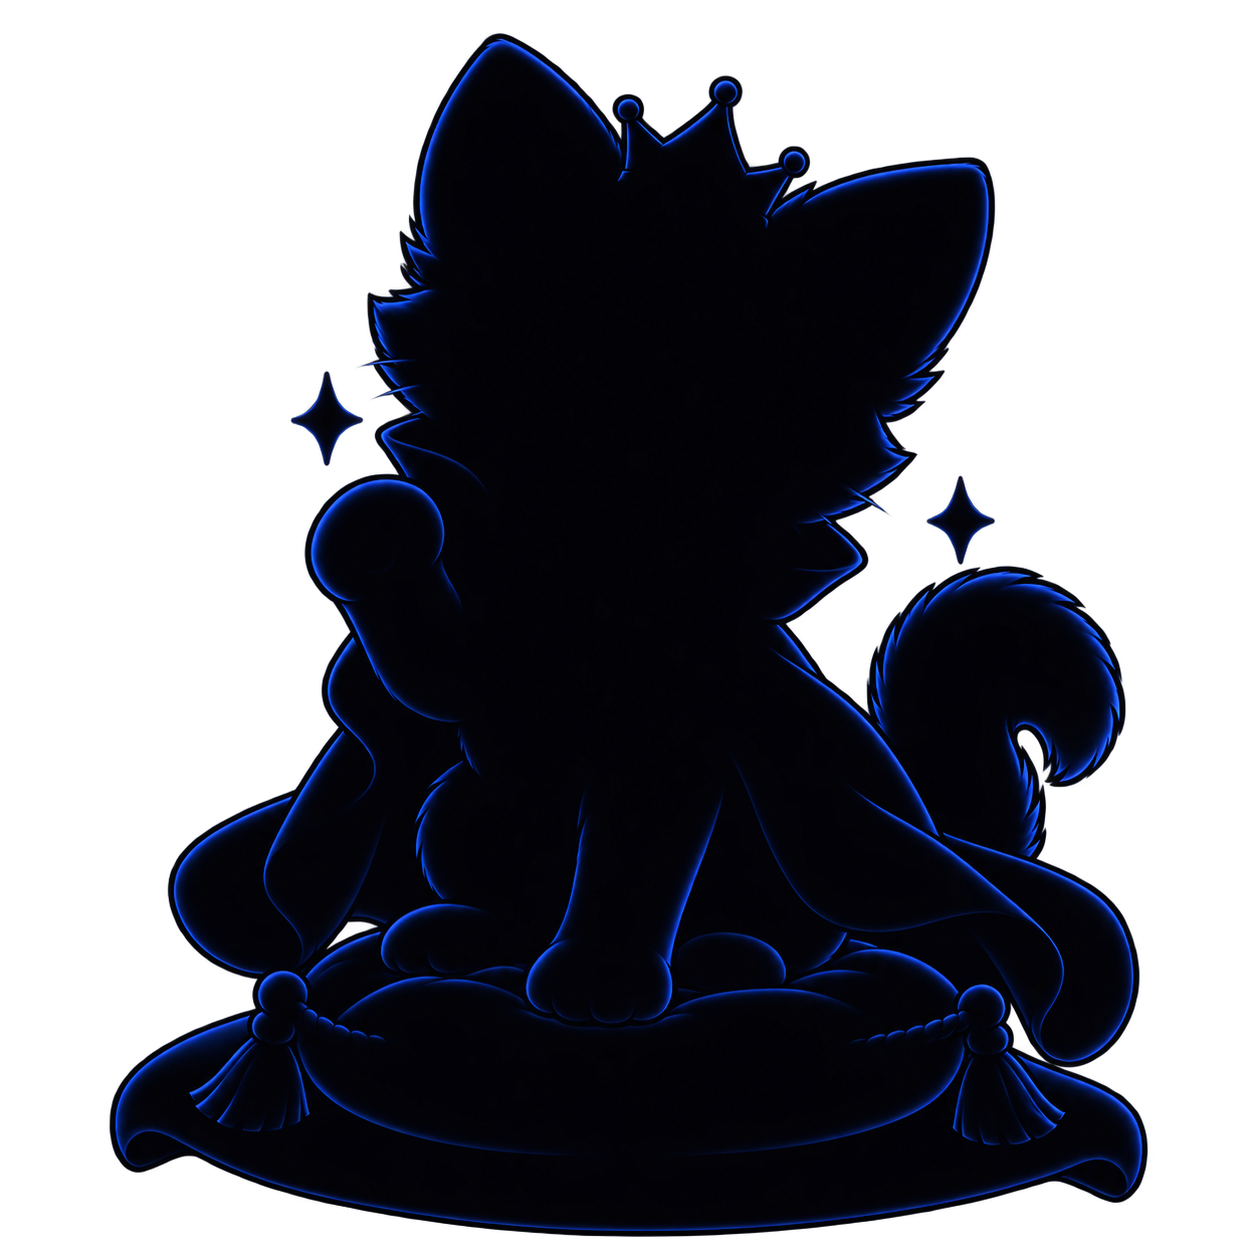
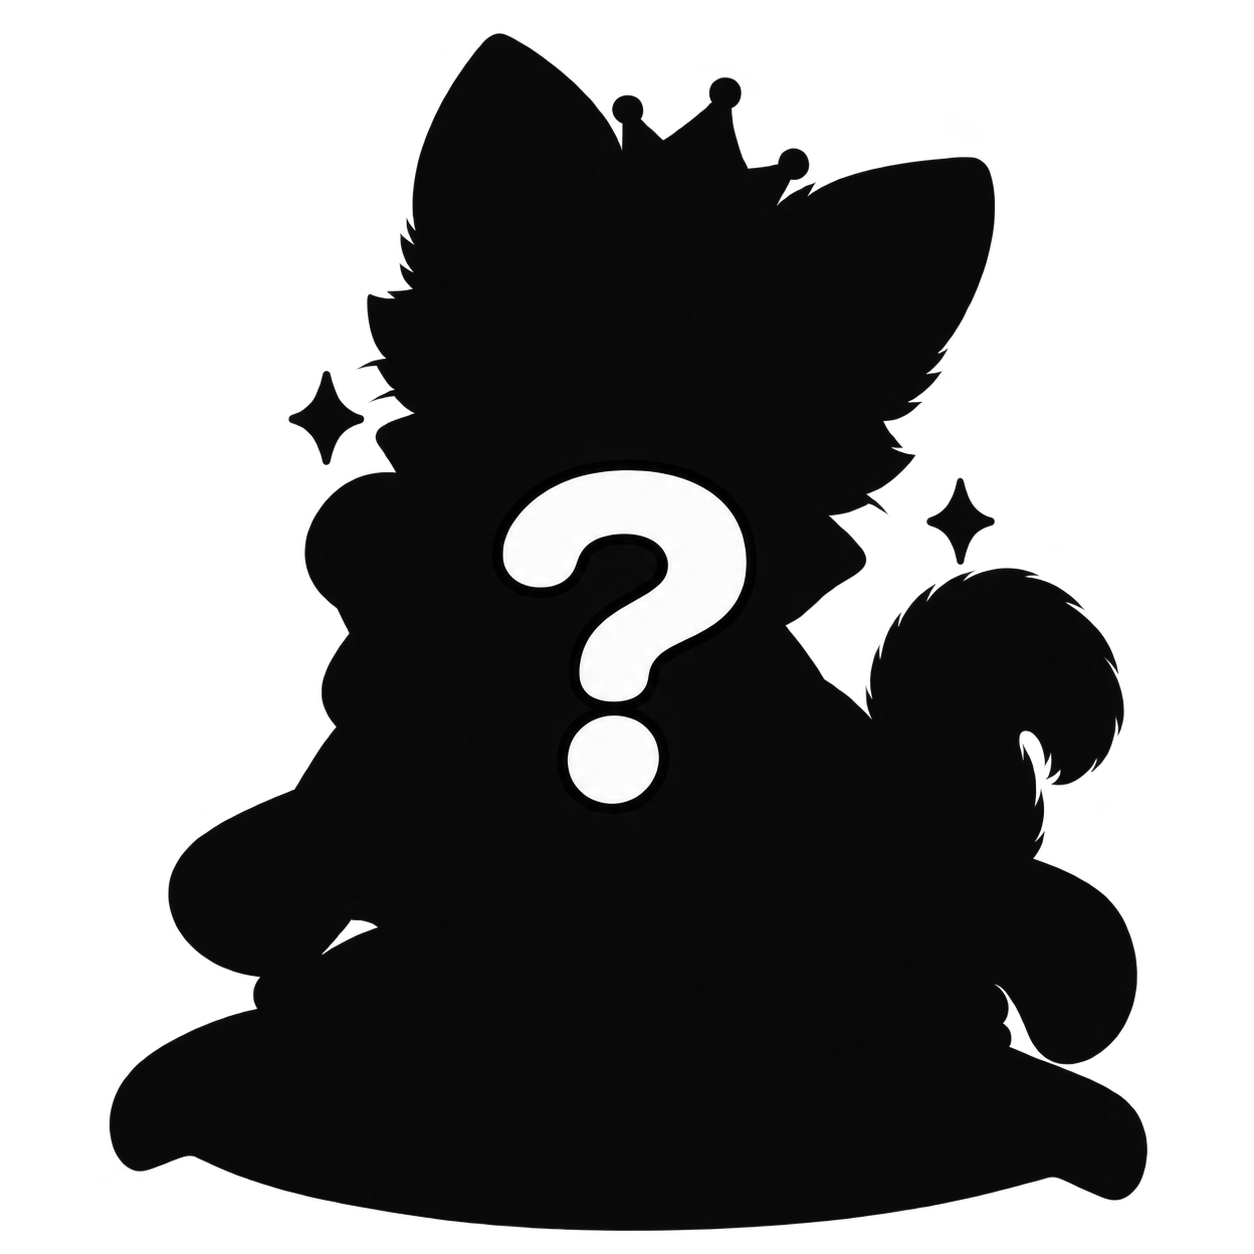
Polish collection rewards and skill usage guidance

diff --git a/style.css b/style.css
@@ -6454,6 +6454,12 @@ body.sneak-mode .board-shell{
   color:#765f56;
 }
 
+.skill-usage-rules{box-sizing:border-box;color:#765f56}
+.howto-skill-usage-rules{display:grid;gap:5px;margin:0 0 9px;padding:8px 10px;border:2px solid #eadfd9;border-radius:13px;background:rgba(255,255,255,.78);font-size:10.5px;line-height:1.35}
+.howto-skill-usage-rules div strong{display:block;color:#6b4b42}
+.howto-skill-usage-rules p{margin:1px 0 0}
+.howto-skill-usage-rules .skill-usage-entitlement{padding-top:5px;border-top:1px solid #eadfd9}
+
 
 /* ネコ / 警察 タブ */
 .howto-skill-tabs{
@@ -7946,23 +7952,6 @@ body.sneak-mode .board-shell{
   width:100%;height:100%;object-fit:contain;display:block;
 }
 .collection-material-pending{position:absolute;left:50%;top:50%;transform:translate(-50%,-50%);padding:8px 12px;border:1px dashed #bca38e;border-radius:10px;background:#fff9ed;color:#8f776b;font-size:12px;font-weight:900}.collection-material-pending[hidden]{display:none}
-.collection-lock{
-  position:absolute;
-  z-index:2;
-  left:50%;top:50%;
-  display:none;
-  min-width:96px;
-  color:#fff;
-  text-align:center;
-  transform:translate(-50%,-50%);
-}
-.collection-lock strong{display:block}
-.collection-lock strong{
-  font-size:64px;
-  line-height:.85;
-  text-shadow:0 3px 8px rgba(0,0,0,.45);
-}
-.collection-detail.is-unowned .collection-lock{display:none}
 .collection-detail-usage{
   padding:8px;
   border:2px solid #ead0b6;
@@ -8404,25 +8393,6 @@ body.sneak-mode .board-shell{
   pointer-events:none;
 }
 
-.collection-unowned-cover{
-  position:absolute;
-  inset:0;
-  z-index:2;
-  display:flex;
-  flex-direction:column;
-  align-items:center;
-  justify-content:center;
-  background:transparent;
-  color:#fff;
-  pointer-events:none;
-}
-.collection-unowned-cover strong{
-  font-size:52px;
-  line-height:.8;
-  text-shadow:0 3px 7px rgba(0,0,0,.45);
-}
-.collection-unowned-cover strong:not(:only-child){font-size:12px}
-.collection-item-preview:not(:has(img[src])) .collection-unowned-cover strong{max-width:90%;font-size:12px;line-height:1.25;text-align:center;text-shadow:none;color:#8f776b}
 .collection-item.is-unowned .collection-item-preview img{
   filter:none;
   opacity:1;
@@ -9327,9 +9297,20 @@ body.sneak-mode .board-shell{
 .shop-overlay .shop-preview-overlay .howto-ability-preview{width:min(100%,380px);max-height:calc(100dvh - 32px - env(safe-area-inset-top) - env(safe-area-inset-bottom));padding:18px;border:2px solid #dfba9a;border-radius:18px;background:#fffaf1!important;text-align:center}
 .shop-overlay .shop-preview-art{display:block;width:92px;height:92px;object-fit:contain;margin:6px auto 10px}
 .shop-overlay .shop-preview-overlay .howto-ability-detail{text-align:left}
+.shop-skill-usage-summary{margin:0;padding:8px 10px;border-radius:12px;background:#fff7df;color:#765f56;font-size:11px;line-height:1.45;text-align:left}
+.shop-skill-usage-rules{margin-top:9px;padding:9px 11px;border:2px solid #eadfd9;border-radius:12px;background:#fff;color:#765f56;text-align:left}
+.shop-skill-usage-rules>strong{display:block;margin-bottom:5px;font-size:12px}
+.shop-skill-usage-rules dl{display:grid;gap:3px;margin:0;font-size:12px}
+.shop-skill-usage-rules dl div{display:flex;justify-content:space-between;gap:12px}
+.shop-skill-usage-rules dt,.shop-skill-usage-rules dd{margin:0}
+.shop-skill-usage-rules dd{font-weight:900}
 .shop-overlay #shopPreviewPrice{margin:6px 0;font-size:17px;font-weight:900}
 .shop-overlay #shopPreviewPurchase,.shop-overlay #shopPreviewClose{box-sizing:border-box;width:100%;min-height:44px;margin-top:8px;white-space:nowrap}
 @media(max-width:390px),(max-height:700px){.shop-overlay .shop-categories{margin:6px 0 8px}.shop-overlay .shop-skill-browser{gap:9px}.shop-overlay .shop-skill-item{height:64px;min-height:64px;max-height:64px}.shop-overlay .shop-skill-item img{width:42px;height:42px;flex-basis:42px}.shop-overlay .shop-preview-art{width:76px;height:76px}.shop-overlay .shop-preview-overlay .howto-ability-preview{padding:12px}}
+
+@media(max-height:700px){
+  #howToOverlay .howto-page[data-howto-page="3"].show{max-height:calc(100dvh - 118px);padding-right:3px;overflow-y:auto;overscroll-behavior:contain}
+}
 
 /* Equal-width home shortcuts, aligned to the three existing bottom controls. */
 .visual-update3 .home-collection-daily{box-sizing:border-box;justify-self:stretch;width:100%;max-width:none;display:grid!important;grid-template-columns:repeat(3,minmax(0,1fr));gap:8px!important;height:40px;padding:0!important;border:0;border-radius:0;background:transparent;box-shadow:none}

diff --git a/index.html b/index.html
@@ -244,9 +244,6 @@
       </header>
       <div class="collection-detail-scroll">
         <div class="collection-detail-main-image">
-          <span class="collection-lock" aria-hidden="true">
-            <strong>?</strong>
-          </span>
           <img data-detail-collection-image src="" alt="">
           <span class="collection-material-pending" data-detail-material hidden>素材未設定</span>
         </div>
@@ -492,6 +489,12 @@
     「特殊スキルあり」では、<br>
     ネコと柴犬警察が特殊スキルを使えます。
   </p>
+
+  <section class="skill-usage-rules howto-skill-usage-rules" aria-label="対戦モード別のスキル利用範囲">
+    <div><strong>対人戦／オンライン部屋対戦</strong><p data-skill-usage-room-description>参加者のどちらかが利用できるスキルは、その対戦中は両者が使用できます。</p></div>
+    <div><strong>オンライン ランクマッチ</strong><p data-skill-usage-ranked-description>各プレイヤー本人が利用権を持っているスキルのみ使用できます。</p></div>
+    <p class="skill-usage-entitlement" data-skill-usage-entitlement>スキル利用権には、買い切りで購入したスキルと、有効期間中のにゃんチェイスパス対象スキルが含まれます。</p>
+  </section>
 
   <!-- ネコ / 警察 切り替え -->
   <div class="howto-skill-tabs">
@@ -1813,7 +1816,7 @@
     <nav class="shop-categories" aria-label="商品カテゴリ"><button type="button" class="active" data-shop-category="skills">スキル</button><button type="button" data-shop-category="ads">広告</button></nav>
     <div class="shop-content">
       <section class="storekit-panel" id="storeKitPanel">
-        <div id="shopSkillBrowser" class="shop-skill-browser"><nav class="howto-skill-tabs" aria-label="スキルの役割"><button type="button" class="howto-skill-tab active" data-shop-role="cat">🐱 ネコ</button><button type="button" class="howto-skill-tab" data-shop-role="police">🐕 警察</button></nav><div id="shopSkillList" class="shop-skill-list"></div><div class="shop-pack-section"><h3 tabindex="-1">スキルパック</h3><div id="shopPackProducts" class="storekit-products"></div></div></div>
+        <div id="shopSkillBrowser" class="shop-skill-browser"><p class="shop-skill-usage-summary" data-skill-usage-summary>部屋対戦では、どちらかが持っているスキルを2人で使用できます。ランクマッチでは、自分が利用できるスキルのみ使用できます。</p><nav class="howto-skill-tabs" aria-label="スキルの役割"><button type="button" class="howto-skill-tab active" data-shop-role="cat">🐱 ネコ</button><button type="button" class="howto-skill-tab" data-shop-role="police">🐕 警察</button></nav><div id="shopSkillList" class="shop-skill-list"></div><div class="shop-pack-section"><h3 tabindex="-1">スキルパック</h3><div id="shopPackProducts" class="storekit-products"></div></div></div>
         <div id="storeKitProducts" class="storekit-products"></div>
       </section>
       <section class="monetization-dev" id="monetizationDevPanel" hidden aria-label="開発用広告・課金確認">
@@ -1850,6 +1853,10 @@
         <div class="howto-ability-desc" id="shopPreviewDescription"></div>
         <div class="howto-ability-visual" id="shopPreviewVisual"></div>
         <div class="howto-ability-detail" id="shopPreviewDetail"></div>
+        <section class="skill-usage-rules shop-skill-usage-rules" aria-label="利用範囲">
+          <strong>利用範囲</strong>
+          <dl><div><dt>部屋対戦</dt><dd data-skill-usage-room-scope>共有</dd></div><div><dt>ランクマッチ</dt><dd data-skill-usage-ranked-scope>本人のみ</dd></div></dl>
+        </section>
       </div>
       <div class="shop-preview-actions">
         <p id="shopPreviewPrice" hidden></p>

diff --git a/collection.js b/collection.js
@@ -84,6 +84,9 @@
   }
 
   function displayImage(item,state,kind="collection"){
+    if(item?.category==="profileFrame"){
+      return (kind==="profile" ? item.profileImage : item.collectionImage) || item.frameImage || item.preview;
+    }
     if(state==="unowned" && item?.acquisitionType!=="coins"){
       return (kind==="profile" ? item.lockedProfileImage : (item.lockedImage||item.silhouetteImage)) || "";
     }
@@ -91,7 +94,11 @@
   }
 
   function usesLockedImage(item,state){
-    return state==="unowned" && item?.acquisitionType!=="coins";
+    return item?.category!=="profileFrame" && state==="unowned" && item?.acquisitionType!=="coins";
+  }
+
+  function isCollectionVisible(item){
+    return item?.materialStatus!=="pending" && item?.assetStatus!=="placeholder";
   }
 
   function sanitizeCatalogEquipment(data,catalog=defaultCatalog){
@@ -471,16 +478,6 @@
         preview.appendChild(priceBadge);
       }
 
-      if(state==="unowned" && !source){
-        const unownedCover=document.createElement("span");
-        unownedCover.className="collection-unowned-cover";
-        unownedCover.setAttribute("aria-hidden","true");
-        const question=document.createElement("strong");
-        question.textContent=item.materialStatus==="pending"?"素材未設定":"?";
-        unownedCover.appendChild(question);
-        preview.appendChild(unownedCover);
-      }
-
       const copy=document.createElement("div");
       copy.className="collection-item-copy";
       const name=document.createElement("strong");
@@ -523,7 +520,11 @@
         return;
       }
       const item=catalog.getItem(selectedItem.categoryId,selectedItem.itemId);
-      if(!item) return;
+      if(!item || !isCollectionVisible(item)){
+        detail.classList.remove("show");
+        detail.setAttribute("aria-hidden","true");
+        return;
+      }
       const state=getItemState(data,item,catalog);
       const collectionImage=detail.querySelector("[data-detail-collection-image]");
       const materialPending=detail.querySelector("[data-detail-material]");
@@ -700,7 +701,7 @@
         heading.textContent=category.label;
         const grid=document.createElement("div");
         grid.className="collection-grid";
-        catalog.getItemsByCategory(categoryId).forEach(item=>{
+        catalog.getItemsByCategory(categoryId).filter(isCollectionVisible).forEach(item=>{
           grid.appendChild(createItemCard(item,presentedData,saving));
         });
         group.append(heading,grid);
@@ -794,6 +795,7 @@
     canEquipItem,
     displayImage,
     usesLockedImage,
+    isCollectionVisible,
     sanitizeCatalogEquipment,
     validateEquip,
     validatePurchase,

diff --git a/skill-catalog.js b/skill-catalog.js
@@ -13,6 +13,12 @@
     POLICE_GROUP_SEARCH:"POLICE_GROUP_SEARCH"
   });
   const SKILL_PACK_IDS=Object.freeze({SKILL_PACK_01:"SKILL_PACK_01"});
+  const USAGE_POLICY=Object.freeze({
+    summary:"部屋対戦では、どちらかが持っているスキルを2人で使用できます。ランクマッチでは、自分が利用できるスキルのみ使用できます。",
+    room:Object.freeze({label:"部屋対戦",scope:"共有",description:"参加者のどちらかが利用できるスキルは、その対戦中は両者が使用できます。"}),
+    ranked:Object.freeze({label:"オンライン ランクマッチ",scope:"本人のみ",description:"各プレイヤー本人が利用権を持っているスキルのみ使用できます。"}),
+    entitlementDescription:"スキル利用権には、買い切りで購入したスキルと、有効期間中のにゃんチェイスパス対象スキルが含まれます。"
+  });
 
   const SKILLS=Object.freeze({
     [SKILL_IDS.CAT_STEALTH]:Object.freeze({id:SKILL_IDS.CAT_STEALTH,role:"cat",runtimeId:"sneak",name:"忍び足",free:true}),
@@ -42,5 +48,5 @@
   }
   function toRuntimeId(skillId){return SKILLS[skillId]?.runtimeId||null;}
 
-  return Object.freeze({SKILL_IDS,SKILL_PACK_IDS,SKILLS,SKILL_PACKS,FREE_SKILL_IDS,isKnownSkillId,isKnownSkillPackId,fromRuntimeId,toRuntimeId});
+  return Object.freeze({SKILL_IDS,SKILL_PACK_IDS,SKILLS,SKILL_PACKS,FREE_SKILL_IDS,USAGE_POLICY,isKnownSkillId,isKnownSkillPackId,fromRuntimeId,toRuntimeId});
 });

diff --git a/storekit-ui.js b/storekit-ui.js
@@ -10,6 +10,15 @@
   let activeProductId=null,products=[],category='skills',role='cat',selectedSkillId=null;
   const platformAvailable=Boolean(root.NyanPurchases.nativePlugin());
   const skills=root.NyanSkillCatalog.SKILLS;
+  const usagePolicy=root.NyanSkillCatalog.USAGE_POLICY;
+  if(usagePolicy){
+    document.querySelectorAll('[data-skill-usage-summary]').forEach(node=>{node.textContent=usagePolicy.summary;});
+    document.querySelectorAll('[data-skill-usage-room-description]').forEach(node=>{node.textContent=usagePolicy.room.description;});
+    document.querySelectorAll('[data-skill-usage-ranked-description]').forEach(node=>{node.textContent=usagePolicy.ranked.description;});
+    document.querySelectorAll('[data-skill-usage-entitlement]').forEach(node=>{node.textContent=usagePolicy.entitlementDescription;});
+    document.querySelectorAll('[data-skill-usage-room-scope]').forEach(node=>{node.textContent=usagePolicy.room.scope;});
+    document.querySelectorAll('[data-skill-usage-ranked-scope]').forEach(node=>{node.textContent=usagePolicy.ranked.scope;});
+  }
   async function buy(productId){
     activeProductId=productId;render();const result=await root.NyanPurchases.provider.purchaseProduct(productId);activeProductId=null;
     if(result.purchased)status.textContent='購入を確認しました';else if(result.pending)status.textContent='購入承認待ちです';

diff --git a/tests/shop-navigation.test.js b/tests/shop-navigation.test.js
@@ -58,3 +58,17 @@ test('全5スキルの図解を遊び方とショップで共用する',()=>{
   assert.match(html,/id="shopPreviewVisual"/);
   assert.match(read('style.css'),/grid-template-columns:repeat\(3,minmax\(0,1fr\)\)/);
 });
+
+test('ショップと遊び方に対戦モード別のスキル利用範囲を表示する',()=>{
+  const html=read('index.html'),shop=read('storekit-ui.js');
+  const Skills=require('../skill-catalog.js');
+  assert.equal(Skills.USAGE_POLICY.room.scope,'共有');
+  assert.equal(Skills.USAGE_POLICY.ranked.scope,'本人のみ');
+  assert.match(Skills.USAGE_POLICY.summary,/部屋対戦では/);
+  assert.match(Skills.USAGE_POLICY.entitlementDescription,/にゃんチェイスパス/);
+  assert.match(html,/data-skill-usage-summary/);
+  assert.match(html,/data-skill-usage-room-scope>共有/);
+  assert.match(html,/data-skill-usage-ranked-scope>本人のみ/);
+  assert.match(html,/対人戦／オンライン部屋対戦/);
+  assert.match(shop,/NyanSkillCatalog\.USAGE_POLICY/);
+});

diff --git a/collection-catalog.js b/collection-catalog.js
@@ -254,7 +254,7 @@
       profileImage:`${RANK_FRAME_ROOT}/rank_${rank}_frame.png`,
       frameImage:`${RANK_FRAME_ROOT}/rank_${rank}_frame.png`,
       lockedImage:null,
-      unlockCondition:Object.freeze({rank,minRp:[0,100,200,350,550,800][index],text:rank==="bronze"?"初期所持":`${[0,100,200,350,550,800][index]} RP到達で永久解放`}),
+      unlockCondition:Object.freeze({rank,minRp:[0,100,200,350,550,800][index],text:rank==="bronze"?"初期所持":`${({silver:"Silver",gold:"Gold",platinum:"Platinum",diamond:"Diamond",master:"Master"})[rank]}ランク到達で永久解放`}),
       acquisitionType:"rankReward",rarity:rank==="master"?"Legendary":rank==="bronze"?"Common":"Epic",
       materialStatus:"ready",assetStatus:"ready"
     }))

diff --git a/GAME_SPEC.md b/GAME_SPEC.md
@@ -275,3 +275,14 @@
 8. Android対応・最終調整
 
 各Phaseは「実装 → テスト → ユーザー確認 → 次へ」の順で進める。
+
+---
+
+# TODO：プレイ中の使用スキル確認UI
+
+ゲーム進行への影響を避けるため、今回は表示実装を行わない。将来、既存スキルデータを利用して以下を追加する。
+
+- 自分と相手の使用中スキルアイコン
+- タップ時の簡易説明
+- 長押し時の詳細プレビュー（スキル名、対象役割、効果、既存データに使用回数がある場合はその回数）
+- 対戦モード別の利用権判定やゲーム進行ロジックは変更せず、表示専用とする
